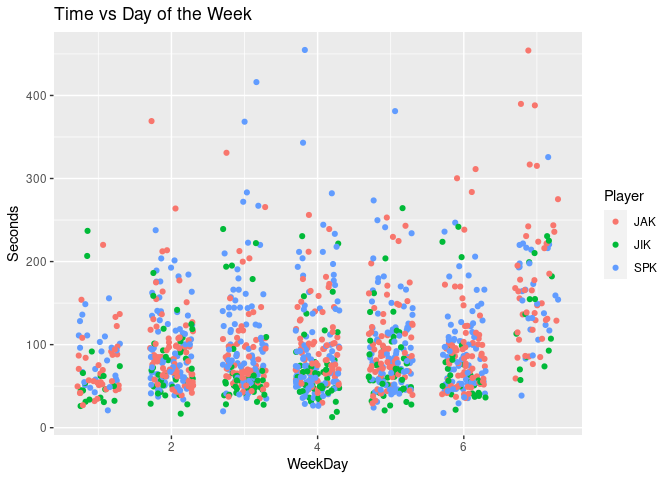
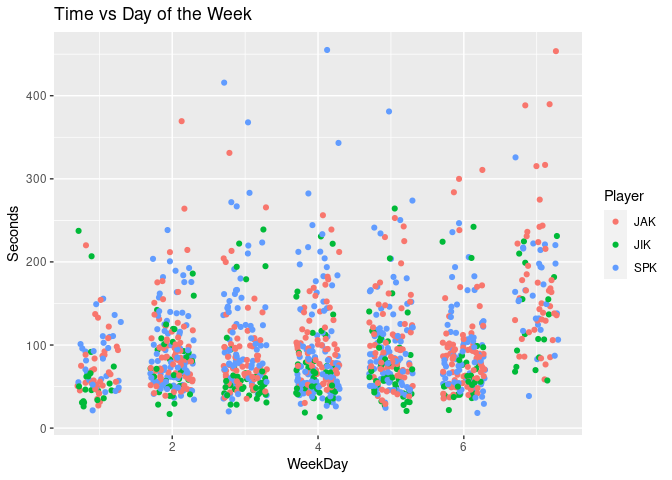
Added new data, updated report

diff --git a/analysis/nyt_mini_crossword.md b/analysis/nyt_mini_crossword.md
@@ -1,7 +1,7 @@
 ---
 title: "New York Time Mini Crossword"
 author: "Stephen Kaluzny"
-date: "21 October, 2021"
+date: "07 November, 2021"
 output:
   html_document:
     keep_md: true
@@ -167,7 +167,7 @@ d %>%
 
 ## Summary Statistics
 
-Current data set has 1197 observations.
+Current data set has 1224 observations.
 
 
 ```r
@@ -182,10 +182,10 @@ d %>% group_by(Player) %>%
 ##   <chr>  <dbl>  <dbl> <dbl> <dbl> <int>
 ## 1 SKK     51       47    21    89     4
 ## 2 AKK     55       55    55    55     1
-## 3 JIK     78.4     61    13   264   229
-## 4 SPK    102.      85    18   455   479
-## 5 JAK    103.      86    27   454   428
-## 6 BBK    117.     102    42   350    56
+## 3 JIK     77.4     60    13   264   238
+## 4 SPK    102.      84    18   455   487
+## 5 JAK    102.      86    27   454   437
+## 6 BBK    117.     102    42   350    57
 ```
 
 ## Subset the Data
@@ -200,7 +200,7 @@ d <- d %>%
   filter(Player %in% c("SPK", "JAK", "JIK"))
 ```
 
-Now have 1136 observations.
+Now have 1162 observations.
 
 ## Plots
 
@@ -334,13 +334,13 @@ sessionInfo()
 ##  [1] highr_0.9        pillar_1.6.4     bslib_0.3.1      compiler_4.1.1  
 ##  [5] jquerylib_0.1.4  tools_4.1.1      digest_0.6.28    lubridate_1.8.0 
 ##  [9] jsonlite_1.7.2   evaluate_0.14    lifecycle_1.0.1  tibble_3.1.5    
-## [13] gtable_0.3.0     pkgconfig_2.0.3  rlang_0.4.12     cli_3.0.1       
-## [17] DBI_1.1.1        yaml_2.2.1       xfun_0.27        fastmap_1.1.0   
+## [13] gtable_0.3.0     pkgconfig_2.0.3  rlang_0.4.12     cli_3.1.0       
+## [17] DBI_1.1.1        yaml_2.2.1       xfun_0.28        fastmap_1.1.0   
 ## [21] withr_2.4.2      stringr_1.4.0    knitr_1.36       hms_1.1.1       
-## [25] generics_0.1.0   vctrs_0.3.8      sass_0.4.0       rprojroot_2.0.2 
-## [29] grid_4.1.1       tidyselect_1.1.1 here_1.0.1       glue_1.4.2      
+## [25] generics_0.1.1   vctrs_0.3.8      sass_0.4.0       rprojroot_2.0.2 
+## [29] grid_4.1.1       tidyselect_1.1.1 here_1.0.1       glue_1.5.0      
 ## [33] R6_2.5.1         fansi_0.5.0      rmarkdown_2.11   farver_2.1.0    
 ## [37] purrr_0.3.4      magrittr_2.0.1   scales_1.1.1     ellipsis_0.3.2  
 ## [41] htmltools_0.5.2  assertthat_0.2.1 colorspace_2.0-2 labeling_0.4.2  
-## [45] utf8_1.2.2       stringi_1.7.5    munsell_0.5.0    crayon_1.4.1
+## [45] utf8_1.2.2       stringi_1.7.5    munsell_0.5.0    crayon_1.4.2
 ```
